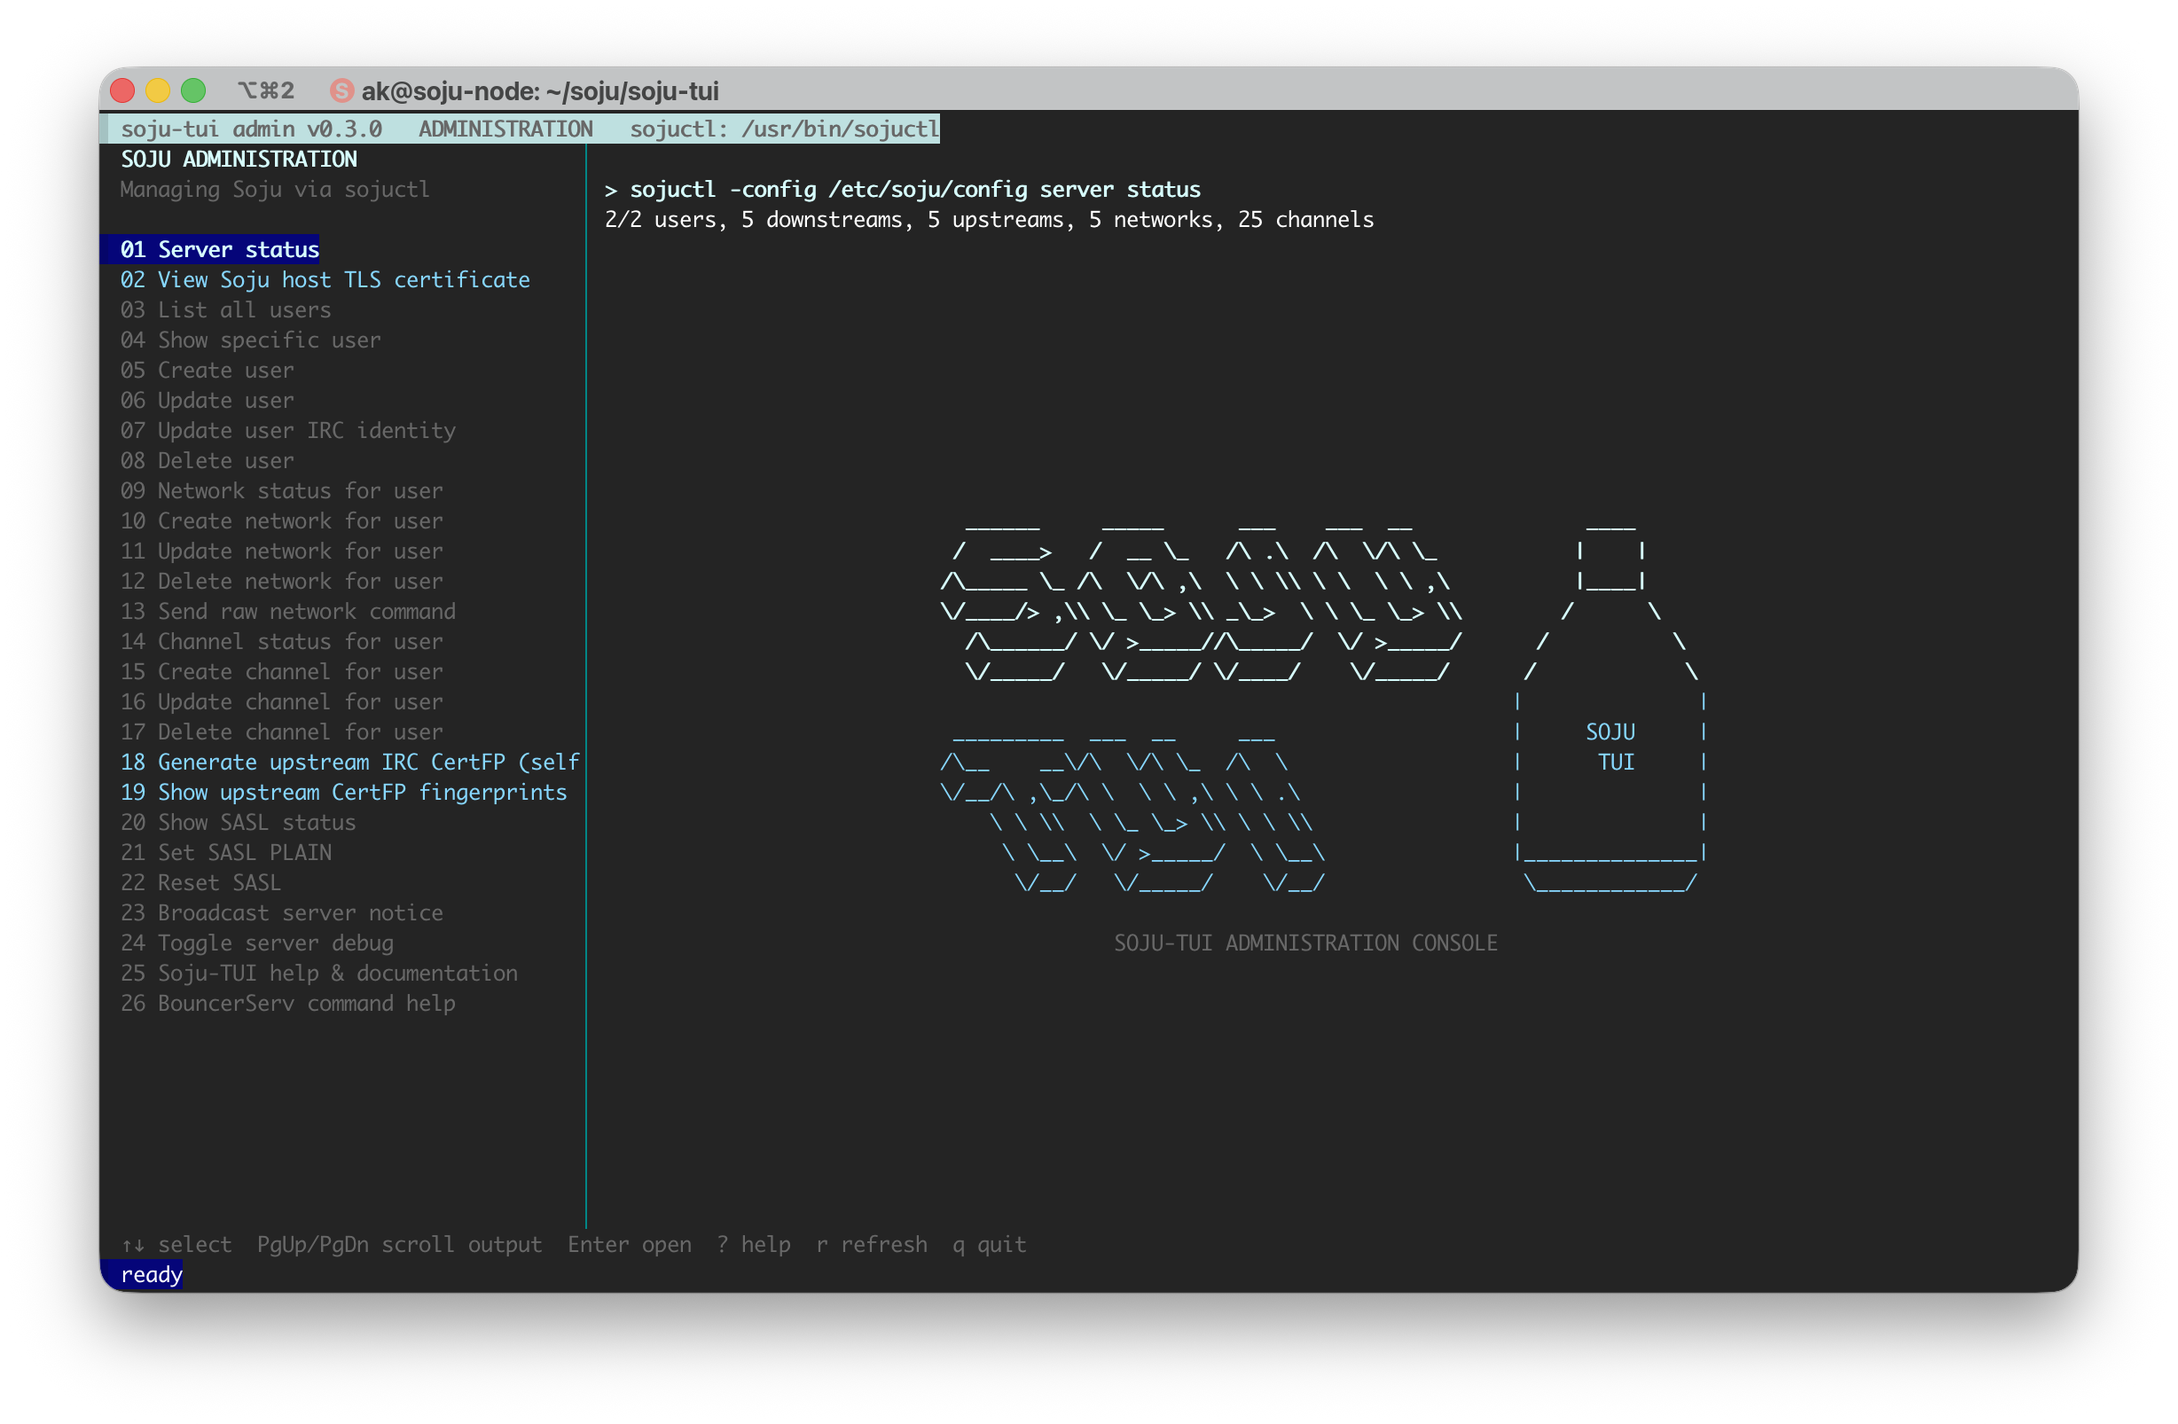
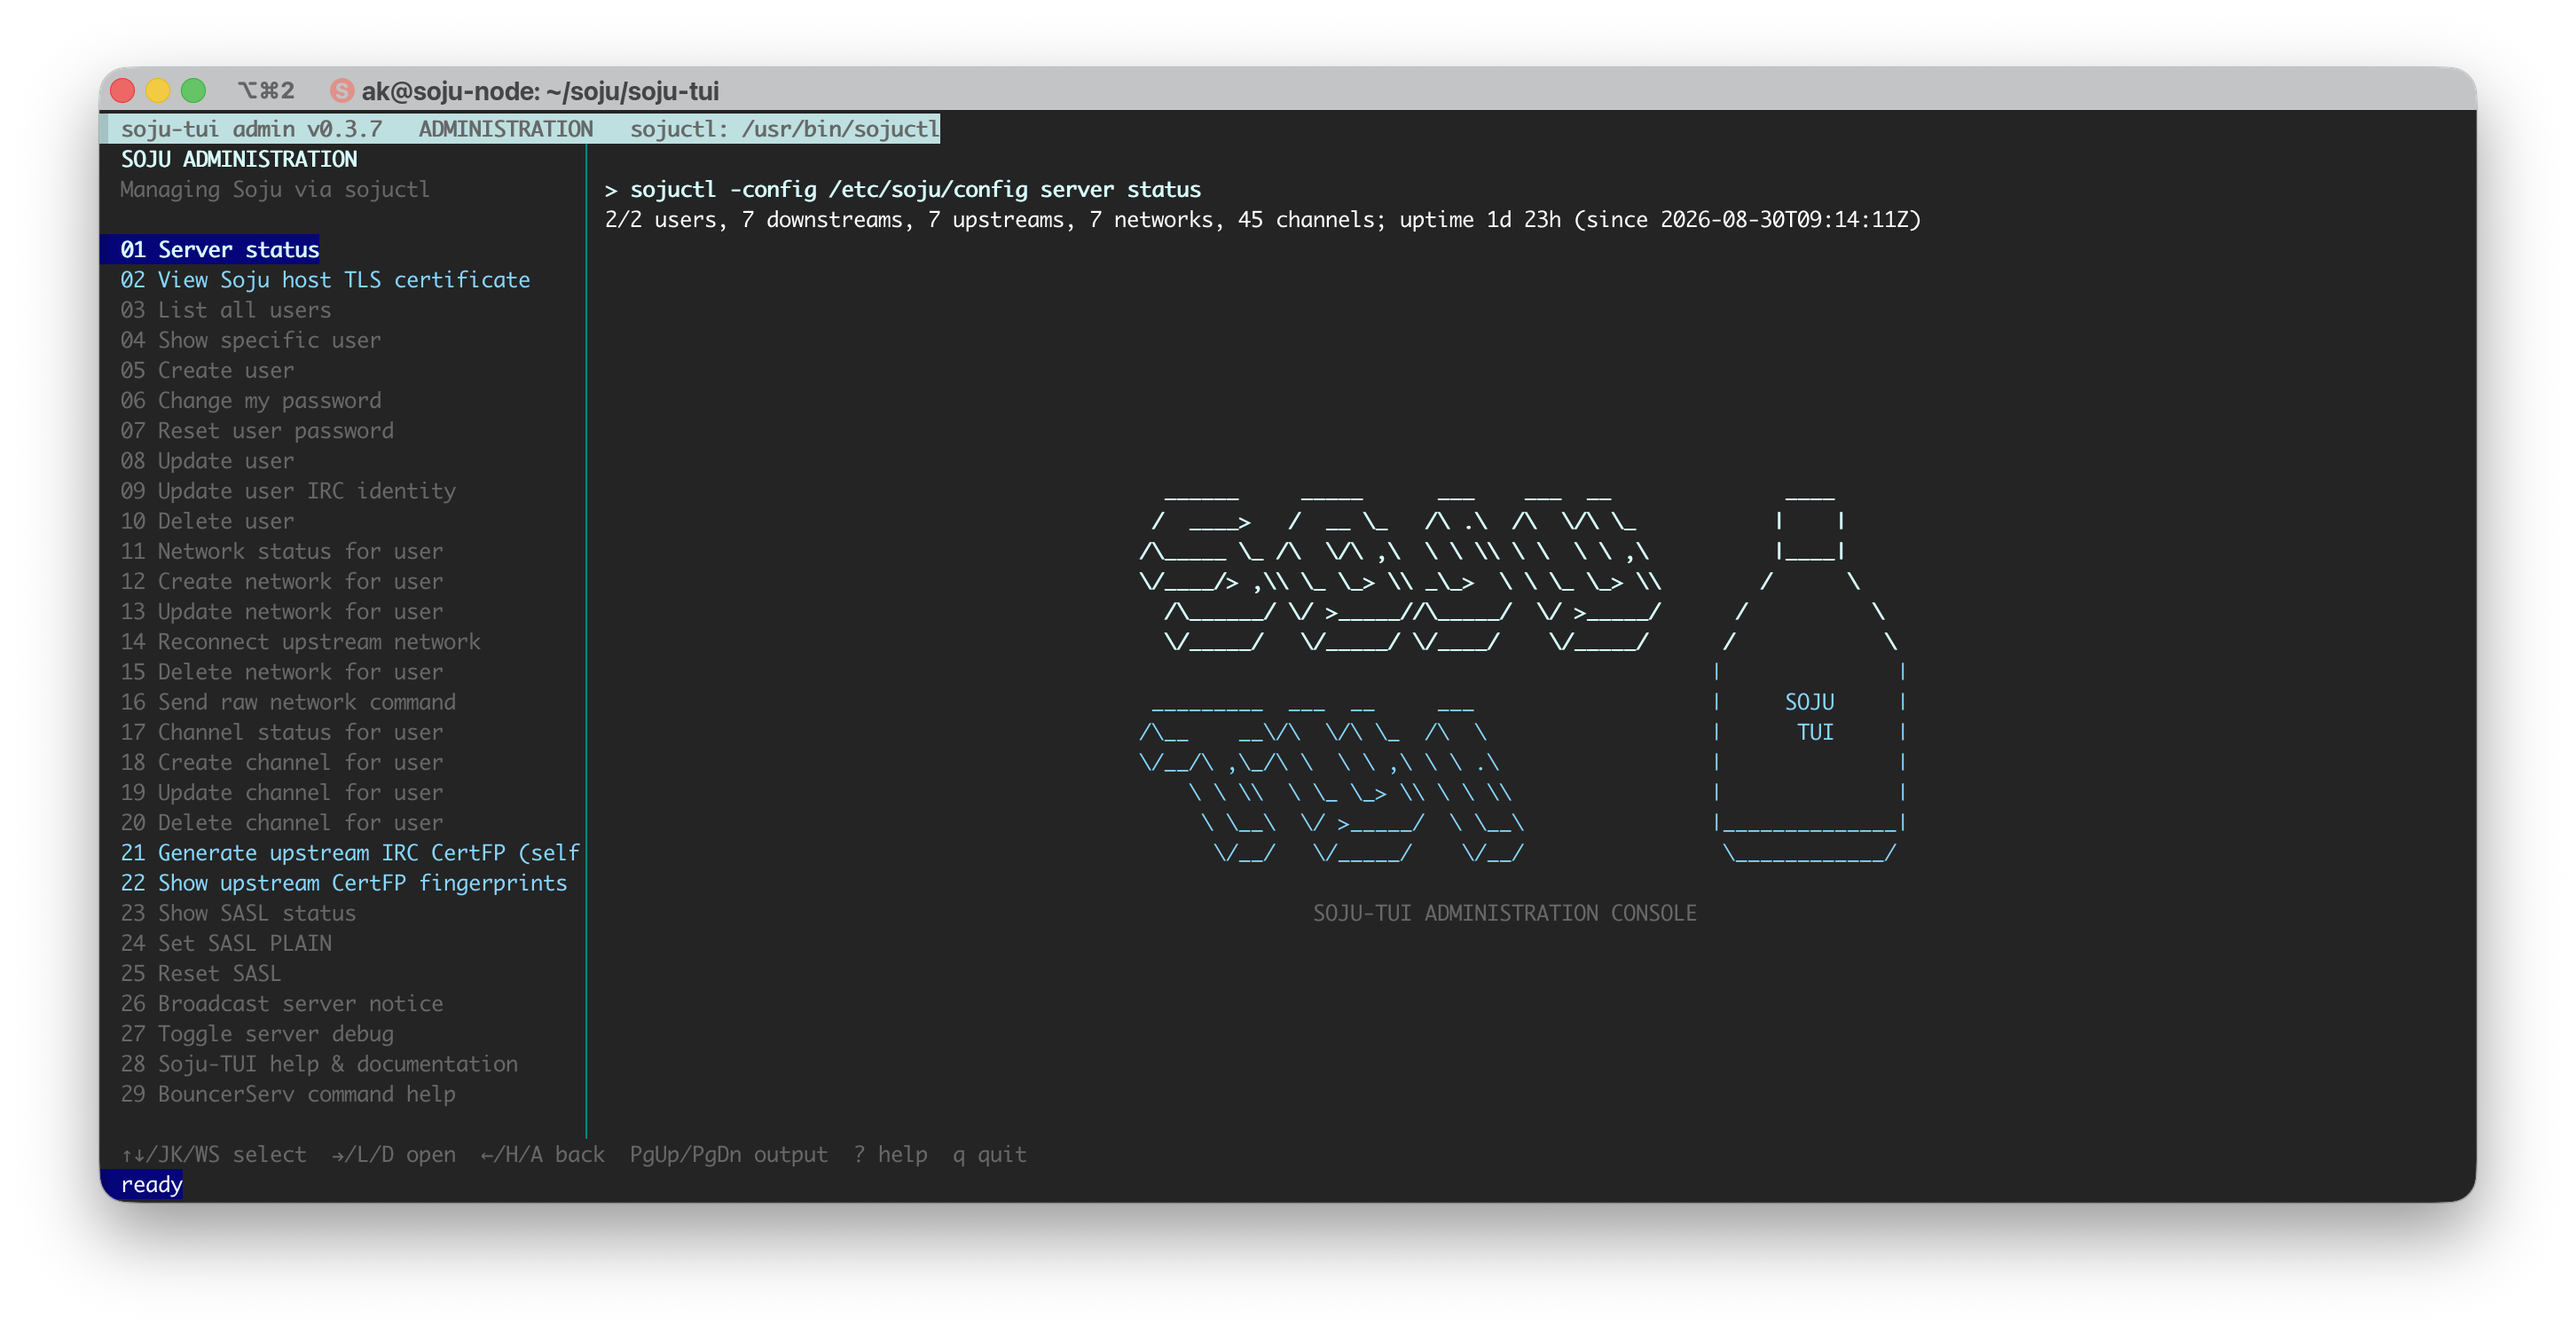
Refresh README screenshot for v0.3.7

diff --git a/README.md b/README.md
@@ -36,7 +36,7 @@ it is not an IRC chat client and never opens channels or displays messages.
   toolchain nor ncurses; a running Soju instance and `sojuctl` are still
   required.
 
-![Soju-TUI administration interface](assets/screenshots/soju-tui-screen.png)
+![Soju-TUI v0.3.7 administration interface](assets/screenshots/soju-tui-screen.png)
 
 ## Quick start
 
